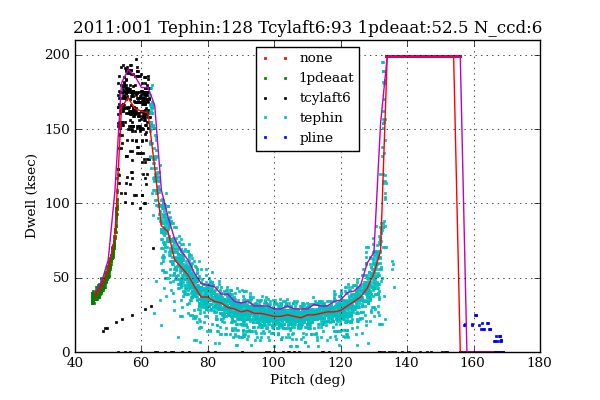
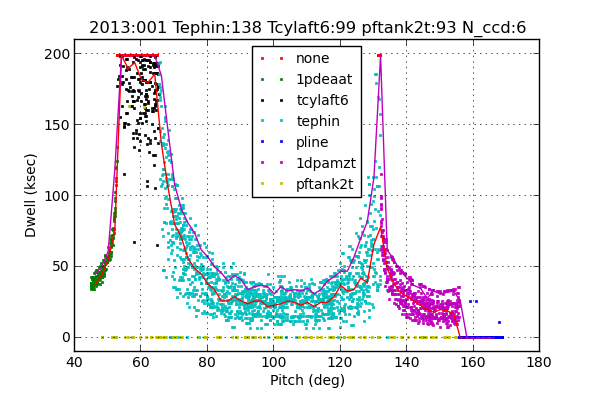
Update docs for 0.2 (add DPA and tank models)

Changed region(s): [[0.03, 0.03, 0.93, 0.99], [0.24, 0.75, 0.27, 0.78]]

diff --git a/doc/index.rst b/doc/index.rst
@@ -86,7 +86,7 @@ make``.  First look at the available options::
 Now run it, which takes about a minute using the recommended default settings::
 
   % pyger make
-  Creating pyger simulation inputs covering 2009:274 to 2010:264
+  Creating pyger simulation inputs covering 2011:249 to 2012:239
   Reading Obsids...
   Assembling inputs for minus_z
     Fetching tcylaft6 telemetry
@@ -96,10 +96,15 @@ Now run it, which takes about a minute using the recommended default settings::
     Fetching tmzp_my telemetry
   Assembling inputs for pline
     Fetching aosares1 telemetry
+  Assembling inputs for tank
+    Fetching pftank2t telemetry
   Assembling inputs for psmc
     Fetching 1pin1at telemetry
     Fetching 1pdeaat telemetry
+  Assembling inputs for dpa
+    Fetching 1dpamzt telemetry
   Writing simulation inputs to sim_inputs.pkl
+
 
 Note that the ``--start`` and ``--stop`` parameters can be specified in any valid  `DateTime format`_.
 
@@ -111,13 +116,14 @@ The constraint simulation and plot generation is done with ``pyger sim``.  First
   % pyger sim --help
   usage: pyger sim [-h] [--start START] [--n-sim N_SIM] [--dt DT]
                    [--max-tephin MAX_TEPHIN] [--max-tcylaft6 MAX_TCYLAFT6]
-                   [--max-1pdeaat MAX_1PDEAAT] [--n-ccd N_CCD]
+                   [--max-1pdeaat MAX_1PDEAAT] [--max-1dpamzt MAX_1DPAMZT]
+                   [--max-pftank2t MAX_PFTANK2T] [--n-ccd N_CCD]
                    [--max-dwell-ksec MAX_DWELL_KSEC] [--sim-file SIM_FILE]
                    [--plot-file PLOT_FILE] [--plot-title PLOT_TITLE]
 
   optional arguments:
     -h, --help            show this help message and exit
-    --start START         Simulation start time (`DateTime format`_)
+    --start START         Simulation start time
     --n-sim N_SIM         Number of simulation points
     --dt DT               Delta time for sims (sec)
     --max-tephin MAX_TEPHIN
@@ -125,7 +131,11 @@ The constraint simulation and plot generation is done with ``pyger sim``.  First
     --max-tcylaft6 MAX_TCYLAFT6
                           TCYLAFT6 planning limit (degF)
     --max-1pdeaat MAX_1PDEAAT
-                          1PDEAAT planning limit (degF)
+                          1PDEAAT planning limit (degC)
+    --max-1dpamzt MAX_1DPAMZT
+                          1PDEAAT planning limit (degC)
+    --max-pftank2t MAX_PFTANK2T
+                          PFTANK2T planning limit (degF)
     --n-ccd N_CCD         Number of ACIS CCDs
     --max-dwell-ksec MAX_DWELL_KSEC
                           Max allowed dwell time (ksec)
@@ -135,16 +145,19 @@ The constraint simulation and plot generation is done with ``pyger sim``.  First
     --plot-title PLOT_TITLE
                           Title on output plot
 
-Then run it, which takes about 15 seconds for the default settings::
+Then run it, which takes about 25 seconds for the default settings::
 
-  % pyger sim --start 2011:180 --n-sim 500 --max-tcylaft6 98 --plot-file constr_2010180.png
-  MINUS_Z: calculating start temps for 120 dwells
+  MINUS_Z: calculating start temps for 107 dwells
   MINUS_Z: simulating 500 dwells
-  PSMC: calculating start temps for 120 dwells
+  PSMC: calculating start temps for 107 dwells
   PSMC: simulating 500 dwells
-  PLINE: calculating warm time for 120 dwells
+  PLINE: calculating warm time for 107 dwells
   PLINE: simulating 500 dwells
-  Writing constraint plot file constr_2010180.png
+  DPA: calculating start temps for 107 dwells
+  DPA: simulating 500 dwells
+  TANK: calculating start temps for 107 dwells
+  TANK: simulating 500 dwells
+  Writing constraint plot file constr_2013001.png
 
 Note that the ``--start`` parameter can be specified in any valid  `DateTime format`_.
 

diff --git a/doc/pyger.rst b/doc/pyger.rst
@@ -23,6 +23,12 @@ Classes
    :inherited-members:
    :undoc-members:
 
+.. autoclass:: ConstraintDPA
+   :show-inheritance:
+   :members:
+   :inherited-members:
+   :undoc-members:
+
 .. autoclass:: ConstraintMinusZ
    :show-inheritance:
    :members:
@@ -40,3 +46,10 @@ Classes
    :members:
    :inherited-members:
    :undoc-members:
+
+.. autoclass:: ConstraintTank
+   :show-inheritance:
+   :members:
+   :inherited-members:
+   :undoc-members:
+
